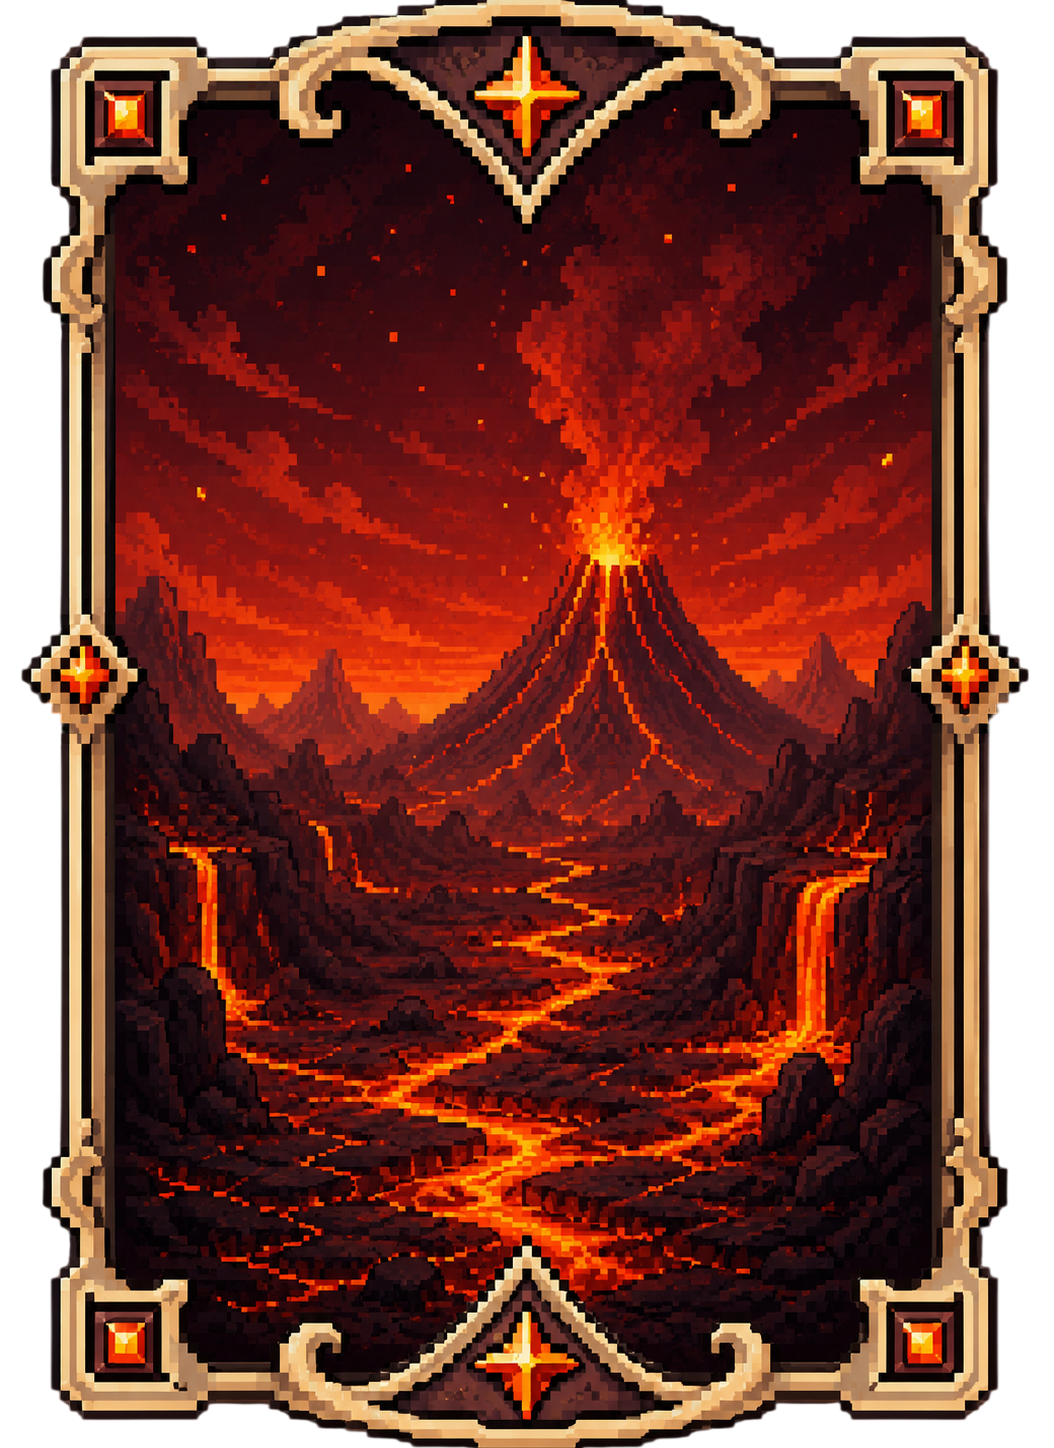
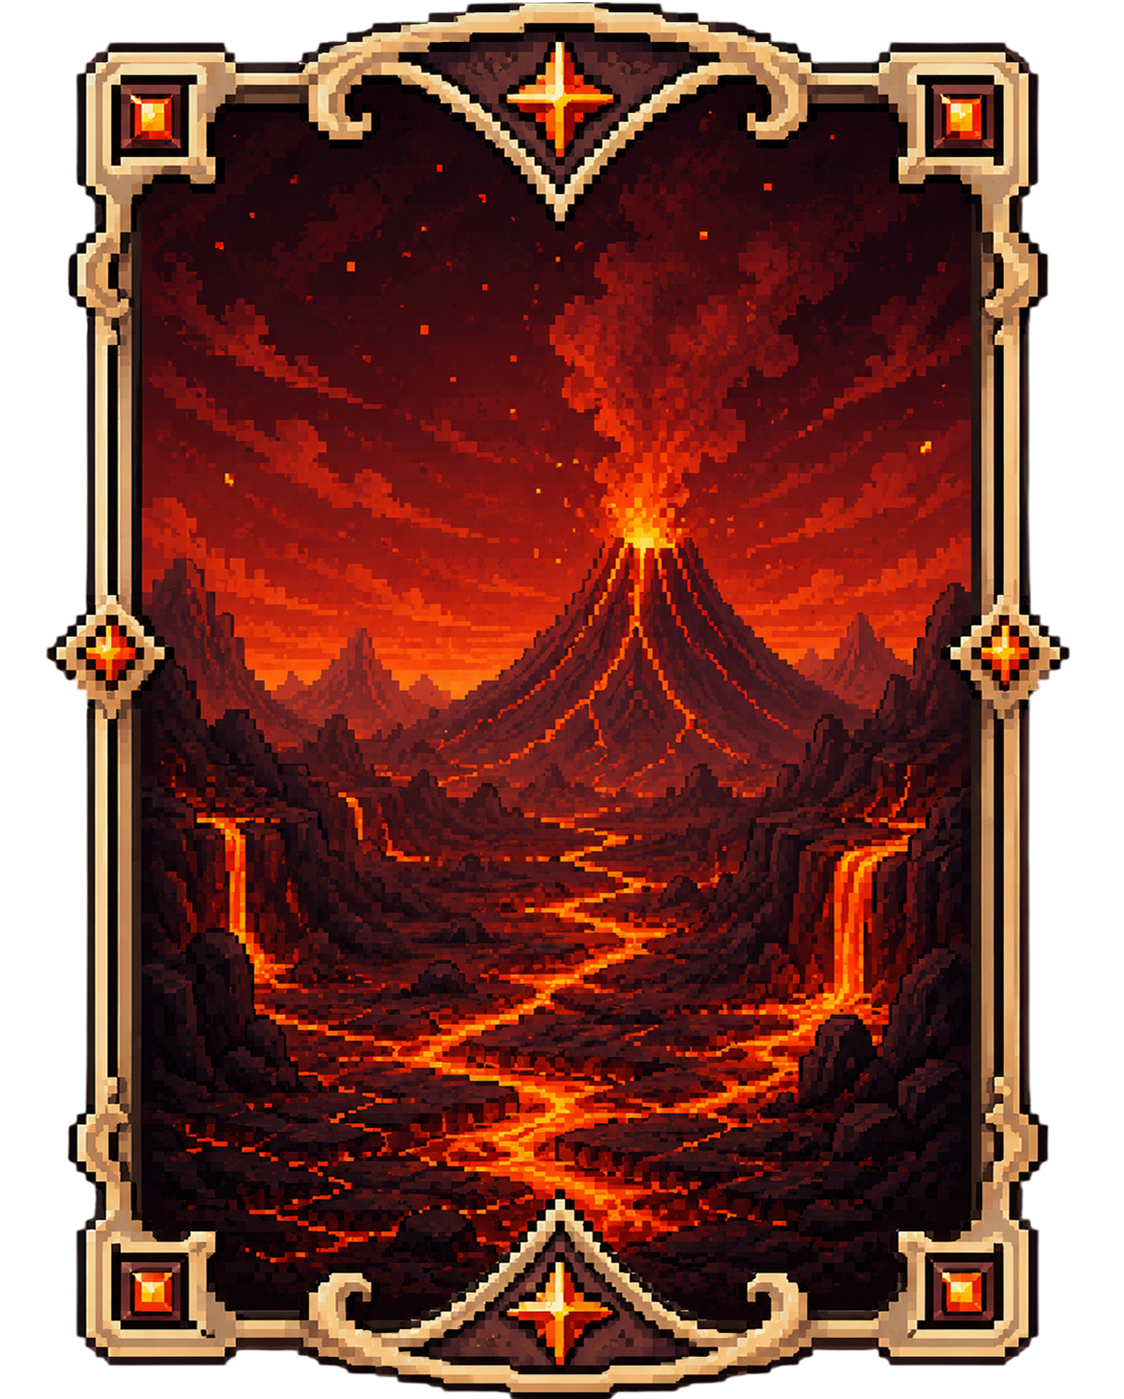
hola

diff --git a/portal/index.css b/portal/index.css
@@ -73,7 +73,7 @@ body{
     border-radius:0;
 
     cursor:pointer;
-    overflow:hidden;
+    
 
     transition:.4s;
 
@@ -114,25 +114,10 @@ body{
 
 
 
-.power.active::after{
 
-    content:"activo";
-
-    position:absolute;
-
-    bottom:-35px;
-
-    left:0;
-
-    right:0;
-
-
-    color:gold;
-
-}
 .card{
-    width:190px;
-    height:250px;
+    width:195px;
+    height:230px;
     perspective:1000px;
 }
 
@@ -153,25 +138,35 @@ body{
     position:absolute;
     width:100%;
     height:100%;
-    top:0;
-    left:0;
+    top:0;    
     backface-visibility:hidden;
-    overflow:hidden;
+    
 }
 
 .back{
+
     transform:rotateY(180deg);
-     overflow:hidden;
+   
     display:flex;
     justify-content:center;
     align-items:end;
-    padding-bottom:40px;
+    width:100%; 
+    height:100%;
     font-size:2rem;
     color:white;
-    border-radius:10px;
-    border:4px solid #493535;
-    background:#2c1e1e;
 
+}
+.back img   {
+    
+    width:19.6vh;
+    height:100%;
+    object-position:center;
+    object-fit:fill;
+}
+
+.power.fire img{
+
+    width: 95%;
 }
 .fire-theme{
 
@@ -234,29 +229,15 @@ margin-top:50px;
     transform:rotateY(180deg);
 }
 
-.card:active{
-    transform:scale(.8);
+.card.scalar{
+    transform:scale(0.9);
+    transition:.6s;
+   
 }
 
 .power{
     position:relative;
 }
-.power.active::before{
-
-    content:"";
-
-    position:absolute;
-
-    inset:0;
-
-    background:rgba(255, 215, 0, 0.25);
-
-    pointer-events:none;
-
-    animation:pulse 1s infinite alternate;
-
-}
-
 
 @keyframes pulse{
 
@@ -295,13 +276,92 @@ margin-top:50px;
 
     background-image:url("./fuego insignia.png");
 
-     background-size:contain;
+     background-size:12vh;
     background-position:center;
     background-repeat:no-repeat;
-    bottom:20%;
+    bottom:12%;
     z-index:1;
 
 }
+
+
+
+.back.fire-back::after{
+
+    content:"Fire";
+    position:absolute;
+    inset:0;
+    top:65%;
+    z-index:1;
+    font-size:2.3rem;
+}
+.back.ice-back::after{
+    
+content:"Ice";
+    position:absolute;
+    inset:0;
+    top:65%;
+    z-index:1;
+    font-size:2.3rem;
+}
+.back.lightning-back::after{
+    
+    content:"Lightning";
+    position:absolute;
+    inset:0;
+    top:65%;
+    z-index:1;
+    font-size:2.3rem;
+}
+.back.nature-back::after{
+    
+    content:"Nature";
+    position:absolute;
+    inset:0;
+    top:65%;
+    z-index:1;
+    font-size:2.3rem;
+}
+
+.back.dark-back::after{
+    
+    content:"Dark";
+    position:absolute;
+    inset:0;
+    top:65%;
+    z-index:1;
+    font-size:2.3rem;
+}
+
+.back.light-back::after{
+    
+    content:"Light";
+    position:absolute;
+    inset:0;
+    top:65%;
+    z-index:1;
+    font-size:2.3rem;
+    color:rgb(65, 46, 46);
+}
+.back.ice-back::before{
+
+    content:"";
+
+    position:absolute;
+
+    inset:0;
+
+    background-image:url("Emblema de copo de nieve pixelado.png");
+
+     background-size:contain;
+    background-position:center;
+    background-repeat:no-repeat;
+    bottom:10%;
+    z-index:1;
+
+}
+
+
 
 .back.ice-back::before{
 
@@ -316,11 +376,10 @@ margin-top:50px;
      background-size:contain;
     background-position:center;
     background-repeat:no-repeat;
-    bottom:20%;
+    bottom:10%;
     z-index:1;
 
 }
-
 .back.lightning-back::before{
 
     content:"";
@@ -331,10 +390,10 @@ margin-top:50px;
 
     background-image:url("Rayo eléctrico en un fondo oscuro.png");
 
-     background-size:120%;
+     background-size:12vh;
     background-position:center;
     background-repeat:no-repeat;
-    bottom:20%;
+    bottom:10%;
     z-index:1;
 
 }
@@ -349,10 +408,10 @@ margin-top:50px;
 
     background-image:url("Hoja verde luminosa en pixel art.png");
 
-    background-size:120%;
+    background-size:17vh;
     background-position:center;
     background-repeat:no-repeat;
-    bottom:20%;
+    bottom:10%;
     z-index:1;
 
 }
@@ -367,7 +426,7 @@ margin-top:50px;
 
     background-image:url("Orbe oscuro con energía púrpura.png");
 
-    background-size:120%;
+    background-size:14vh;
     background-position:center;
     background-repeat:no-repeat;
     bottom:20%;
@@ -383,7 +442,7 @@ margin-top:50px;
 
     background-image:url("Estrella radiante en arte pixelado-Photoroom.png");
 
-     background-size:120%;
+    background-size:10vh;
     background-position:center;
     background-repeat:no-repeat;
     bottom:20%;

diff --git a/portal/index.html b/portal/index.html
@@ -28,7 +28,8 @@
                     </div>
 
                     <div class="back fire-back">
-                        Fire
+                    
+                        <img src="./carta roja reversa.png" alt="">
                     </div>
 
                 </div>
@@ -42,8 +43,8 @@
                     </div>
 
                     <div class="back ice-back">
-                        <img src="carta lluvia reversa.png">
-                        Ice
+                        <img src="carta hielo terminado.png">
+                        
                     </div>
 
                 </div>
@@ -57,7 +58,9 @@
                     </div>
 
                     <div class="back lightning-back">
-                        Lightning
+                          <img src="carta lluvia reversa.png">
+                        
+
                     </div>
 
                 </div>
@@ -71,7 +74,7 @@
                     </div>
 
                     <div class="back nature-back">
-                        nature
+                        <img src="carta verde reversa.png" alt="" srcset="">
                     </div>
 
                 </div>
@@ -85,7 +88,7 @@
                     </div>
 
                     <div class="back dark-back">
-                        dark
+                        <img src="carta oscura reversa.png" alt="" srcset="">
                     </div>
 
                 </div>
@@ -99,18 +102,14 @@
                     </div>
 
                     <div class="back light-back">
-                        Light
+                        
+                        <img src="carta luz reversa.png">
                     </div>
 
                 </div>
             </div>
         </section>
-
-
     </main>
-
-
-
 
 </body>
 </html>

diff --git a/portal/index.js b/portal/index.js
@@ -4,7 +4,7 @@ cards.forEach(card => {
 
     const cardInner = card.querySelector(".card-inner");
     const power = card.querySelector(".power");
-
+    
 
     card.addEventListener("mouseenter", () => {
 
@@ -23,6 +23,16 @@ cards.forEach(card => {
         }
 
     });
+    card.addEventListener("mousedown",()=>{
+        alert("funciona")
+        card.classList.add("scalar")
+    })
+    card.addEventListener("mouseup",()=>{
+
+        card.classList.remove("scalar")
+
+
+    })
     card.addEventListener("click", () => {
 
 
